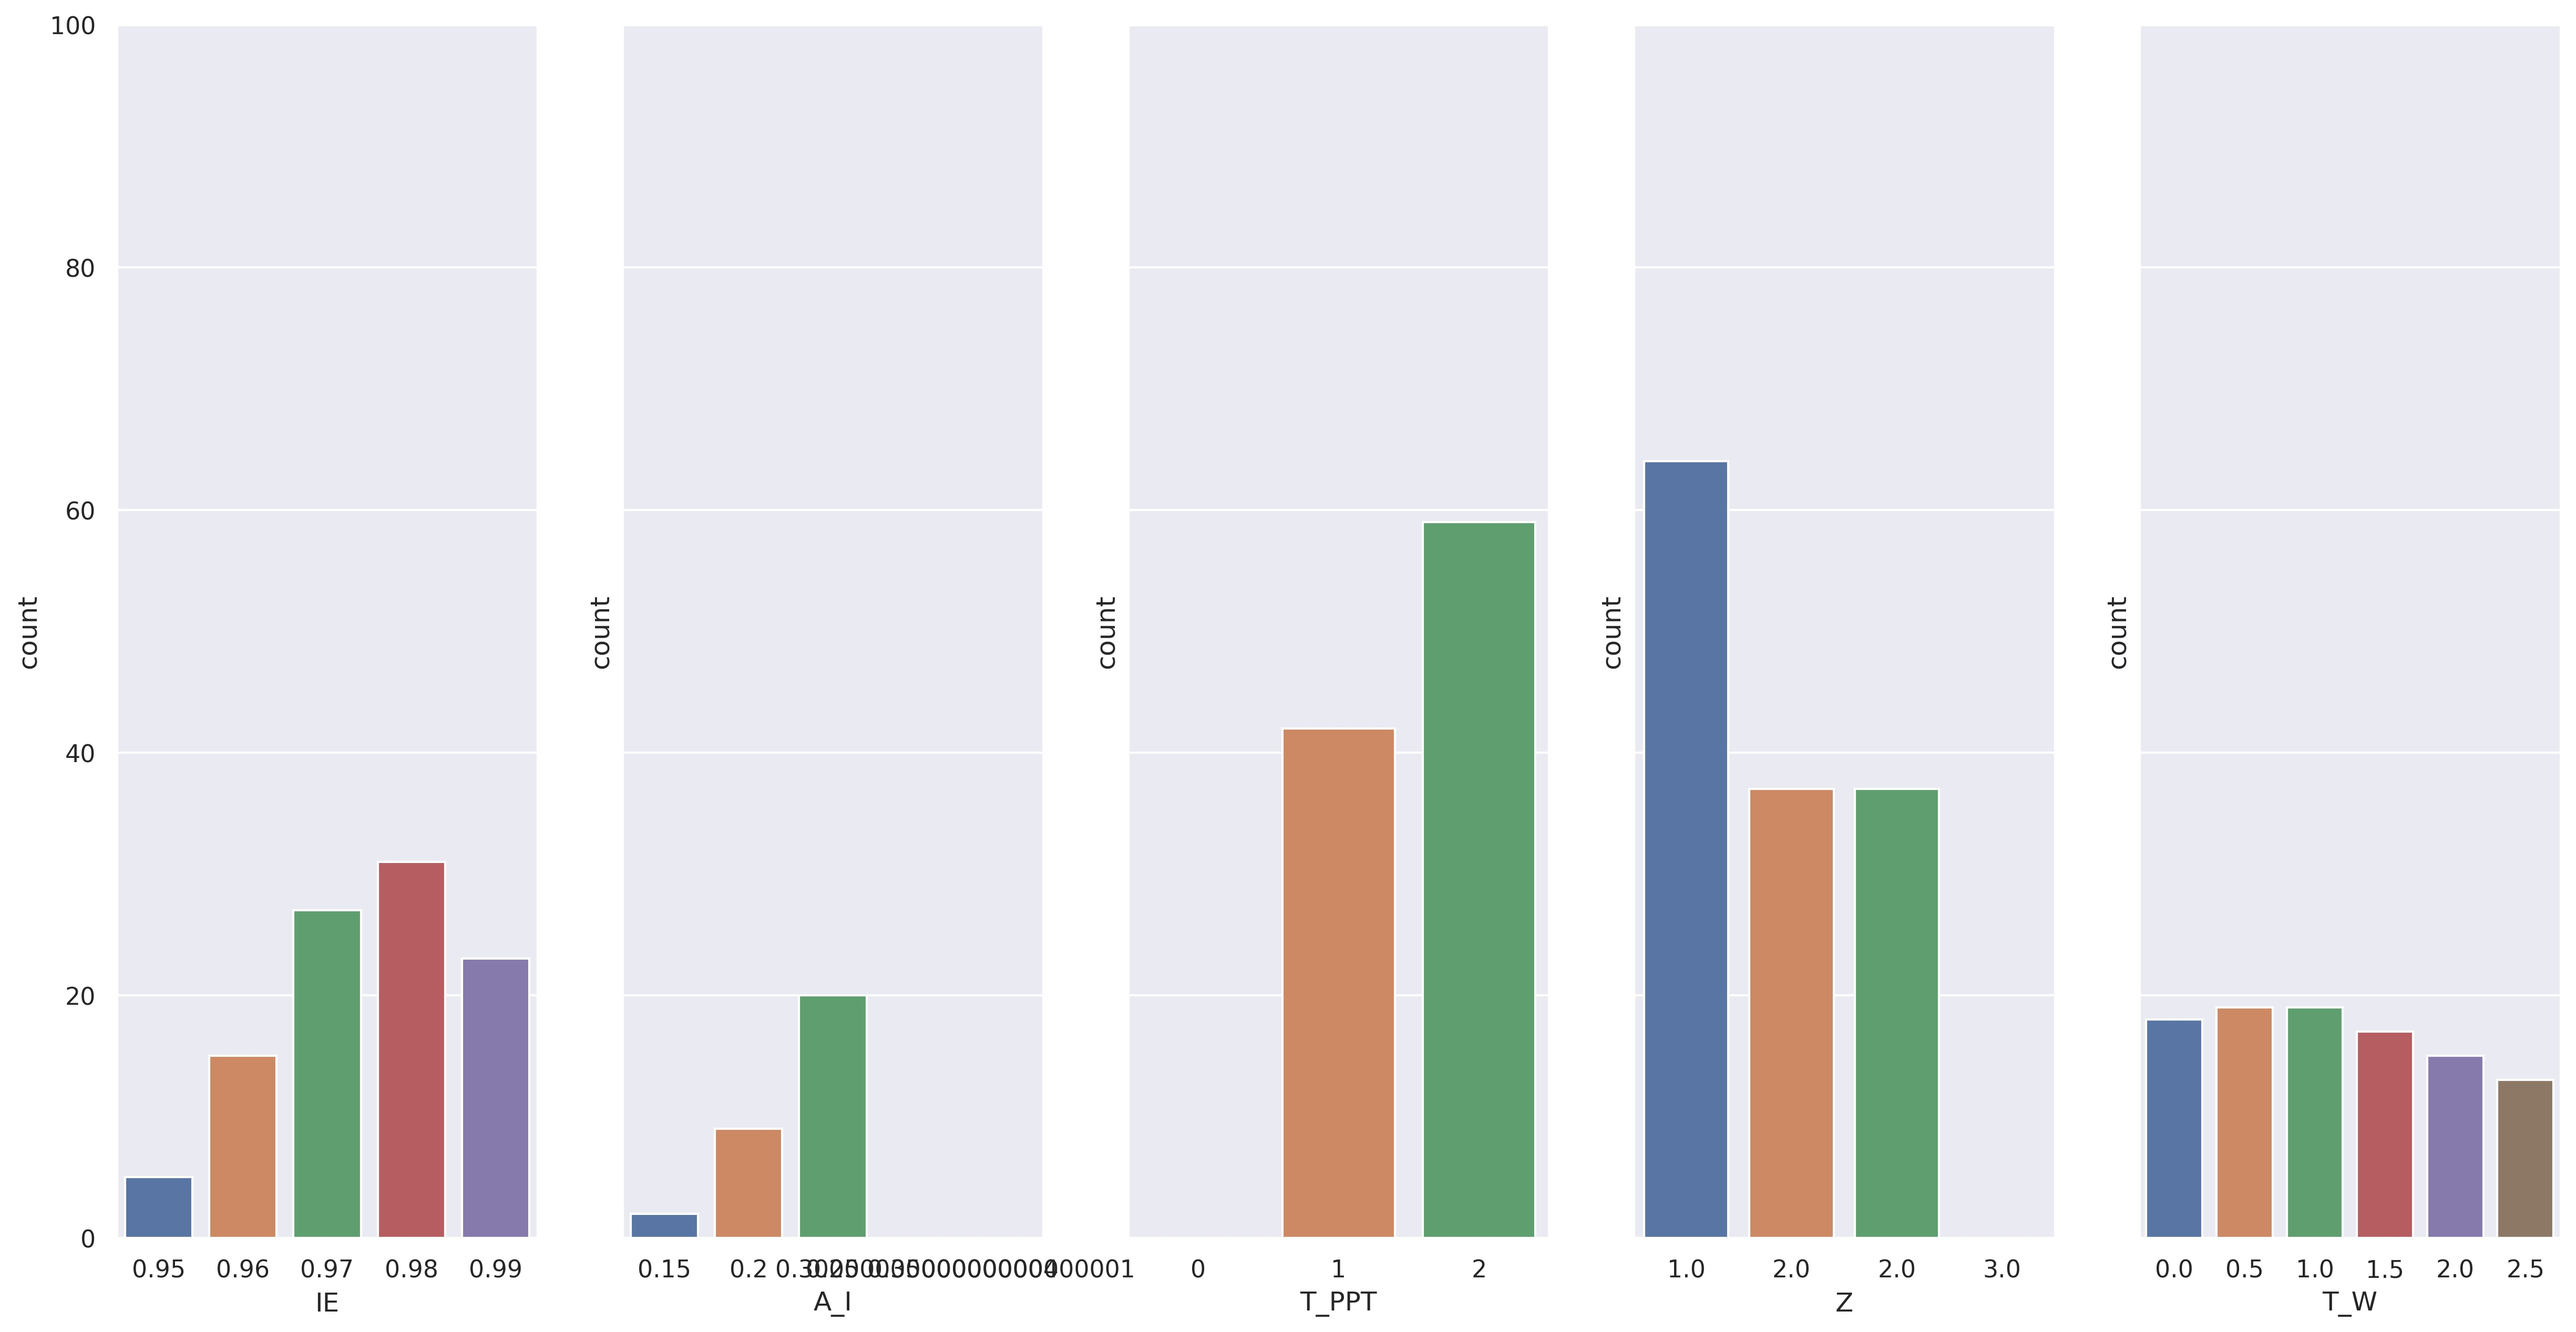
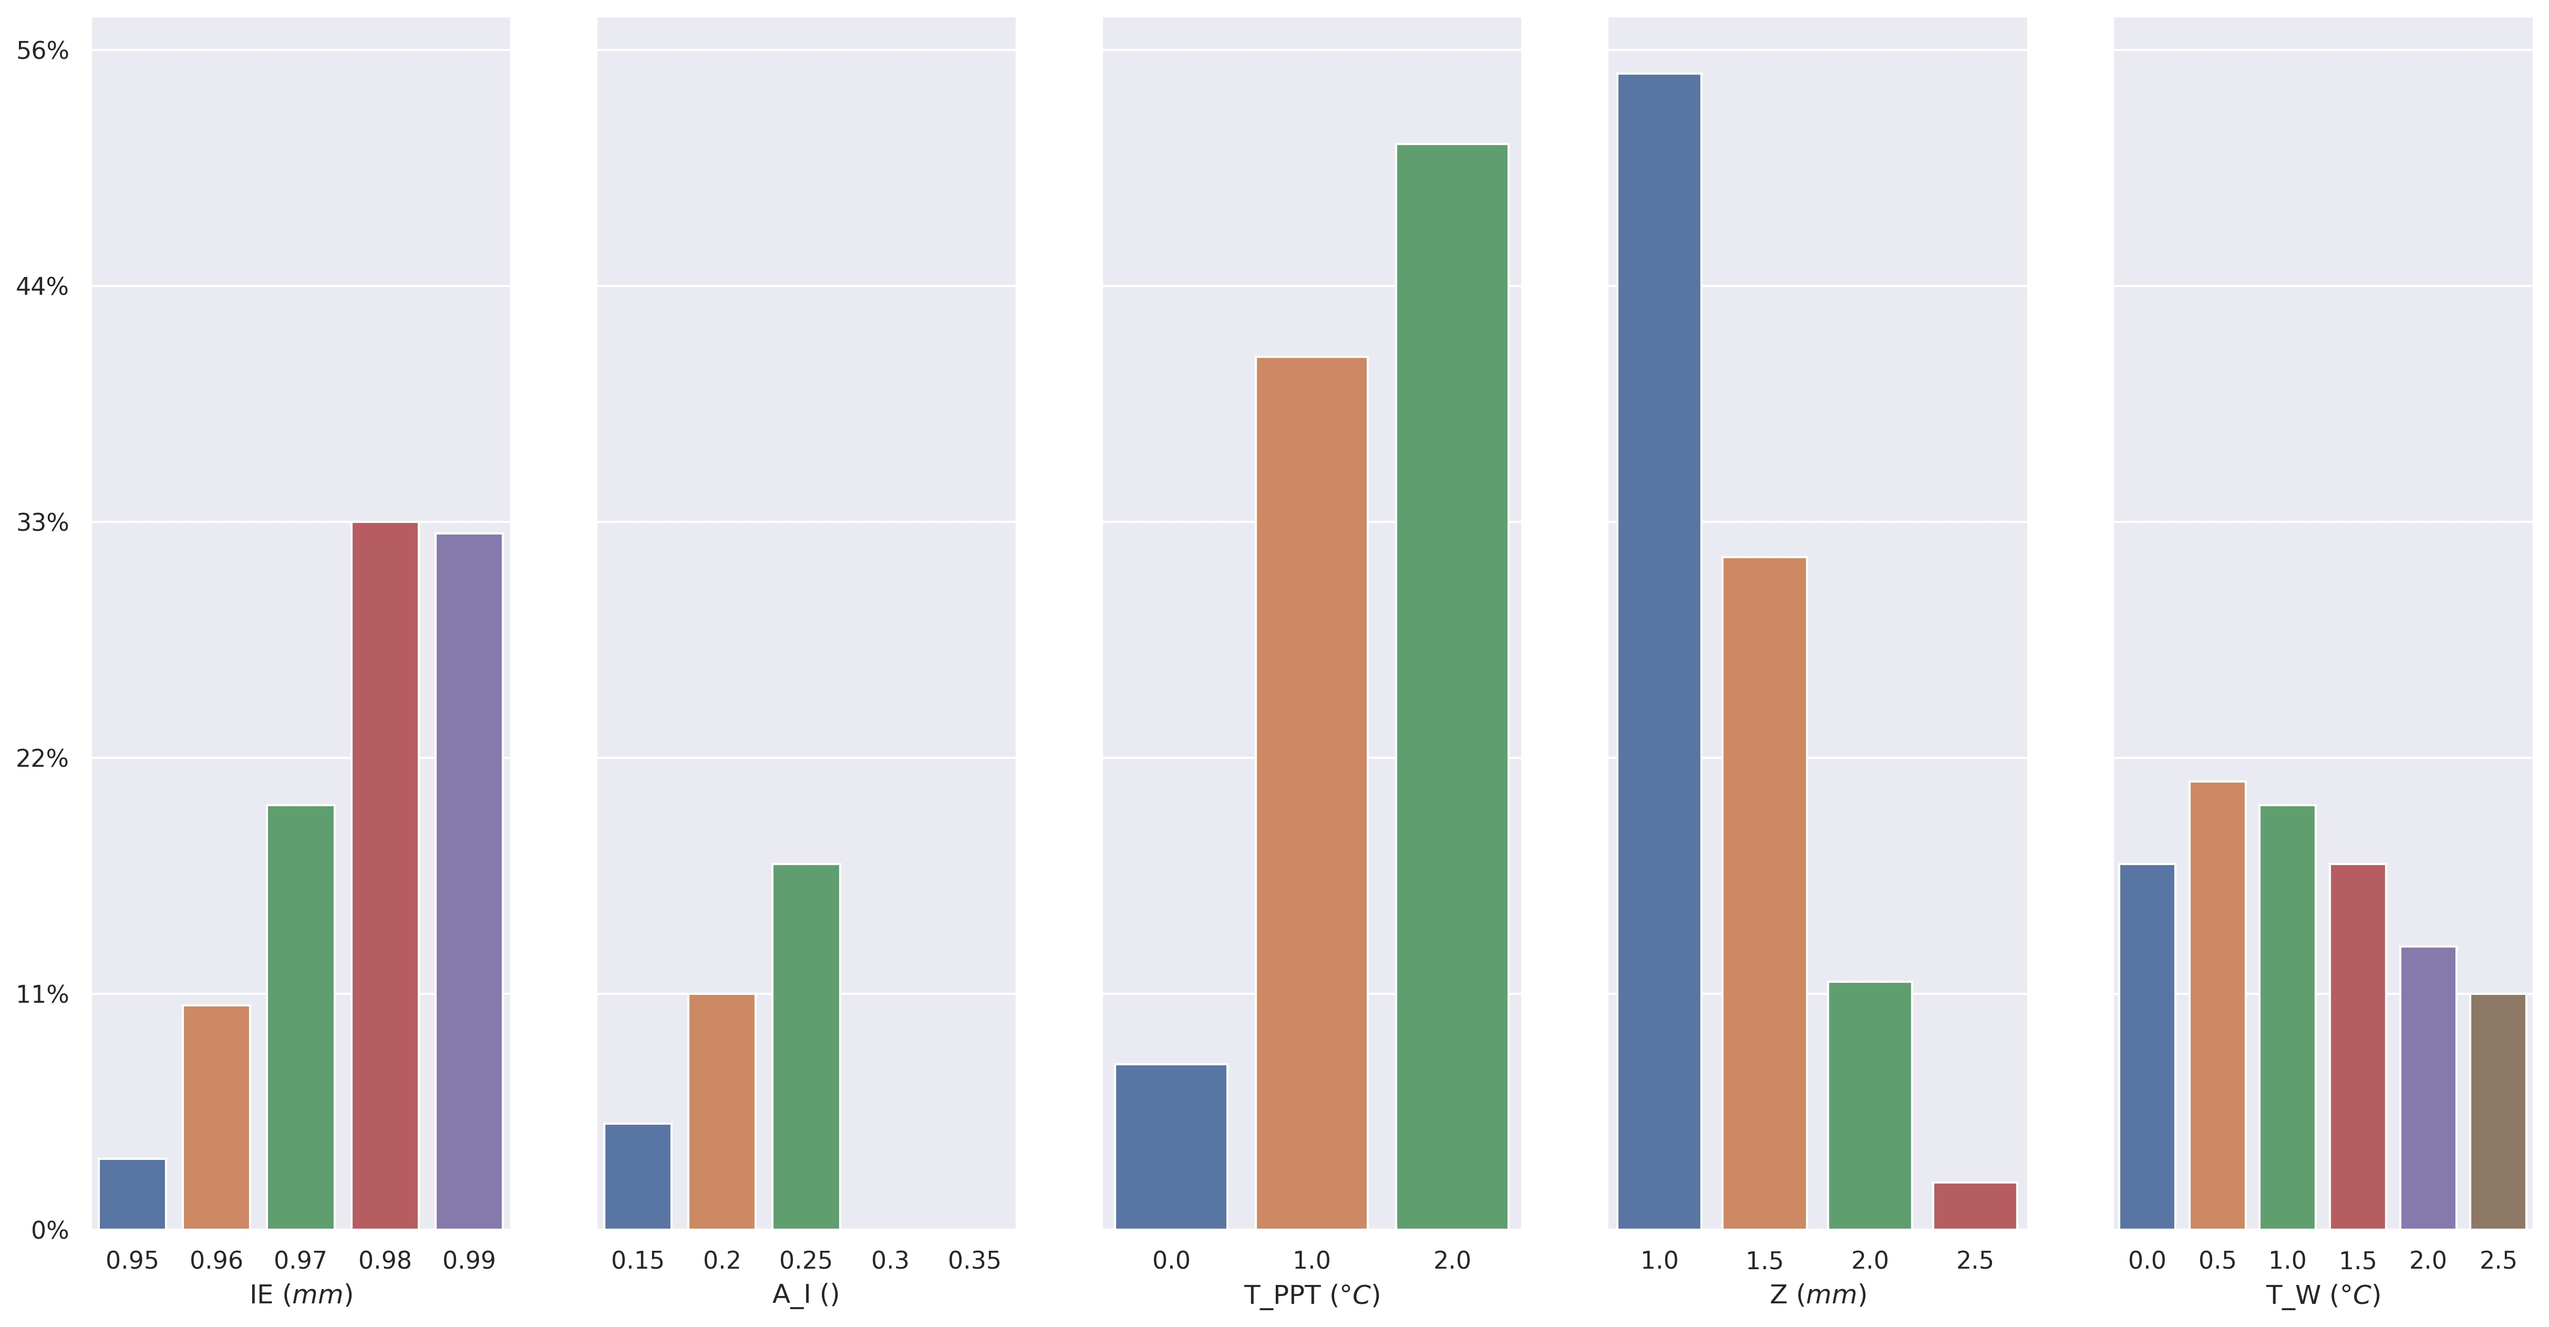
Update sensitivity histplot

diff --git a/src/utils/sensitivity-histplot.py b/src/utils/sensitivity-histplot.py
@@ -15,6 +15,7 @@ from datetime import datetime
 import inspect
 import json
 from ast import literal_eval
+import matplotlib.ticker as mtick
 
 sys.path.append(
     os.path.dirname(os.path.dirname(os.path.dirname(os.path.realpath(__file__))))
@@ -46,37 +47,51 @@ if __name__ == "__main__":
     df = df.set_index('rmse').sort_index().reset_index()
     df['params'] = df['params'].apply(literal_eval)
 
-    print(df.shape[0])
-    print(df.head())
-    for i in range(0,10):
-        print(df.rmse[i])
+    for i in range(0,1):
         for param_name in sorted(df.params[0].keys()):
             print("\t%s: %r" % (param_name, df.params[i][param_name]))
 
-    df = df[:101]
-    df['rmse_percent'] = df['rmse']/icestupa.df.iceV.max() * 100
-    df.plot(y='rmse_percent')
-    plt.savefig(FOLDER["sim"]+ "rmse.jpg", bbox_inches="tight", dpi=300)
-    plt.clf()
+    # df = df[:101]
+    num_selected = int(0.1 * df.shape[0])
+    num_total = df.shape[0]
+    print()
+    print("\tSelected %s out of %s" % (num_selected, num_total))
+    print("\tRMSE %s upto %s" % (df.rmse[0], df.rmse[num_selected]))
+    df = df[:num_selected]
 
     df = pd.concat([df.drop(['params'], axis=1), df['params'].apply(pd.Series)], axis=1)
 
-    tuned_params[param_name] =[round(num, 3) for num in tuned_params[param_name]]
-    df = df.round(3)
+    tuned_params[param_name] =[round(num, 4) for num in tuned_params[param_name]]
+    df = df.round(4)
+
+    units={
+        'IE':" ($mm$)",
+        'A_I':" ()",
+        'A_S':" ()",
+        'A_DECAY':" ($days$)",
+        'T_PPT':" ($\\degree C$)",
+        'Z':" ($mm$)",
+        'T_W':" ($\\degree C$)",
+        'DX':" ($mm$)",
+    }
     sns.set(style="darkgrid")
     fig, ax = plt.subplots(
         nrows=1, ncols=len(tuned_params), sharey="row", figsize=(20, 10)
     )
     for i,param_name in enumerate(tuned_params):
-        print(param_name, i)
         # param_range = [tuned_params[param_name][0], tuned_params[param_name][-1]]
         ax[i] = sns.countplot( x=param_name, data=df, order = tuned_params[param_name], ax=ax[i])
-        ax[i].set_xlabel(param_name)
+        ax[i].set_xlabel(param_name + units[param_name])
         if param_name in ['DX', 'Z']:
-            multiple = 1000
             labels = [item.get_text() for item in ax[i].get_xticklabels()]
-            ax[i].set_xticklabels([str(float(label)* 1000) for label in labels])
-        ax[i].set_ylim([0,100])
+            # ax[i].set_xticklabels([str(round(float(label)* 1000,1)) for label in labels])
+            ax[i].set_xticklabels([str(num*1000) for num in tuned_params[param_name]])
+            # ax[i].set_xlabel(param_name + ' [mm]')
+        else:
+            labels = [item.get_text() for item in ax[i].get_xticklabels()]
+            ax[i].set_xticklabels([str(round(float(label),2)) for label in labels])
+        ax[i].set_ylabel("")
+        ax[i].yaxis.set_major_formatter(mtick.PercentFormatter(num_selected))
         # ax.set_ylabel("Count [$\%$]")
 
     plt.savefig(FOLDER["sim"]+"param_hist.jpg", bbox_inches="tight", dpi=300)
